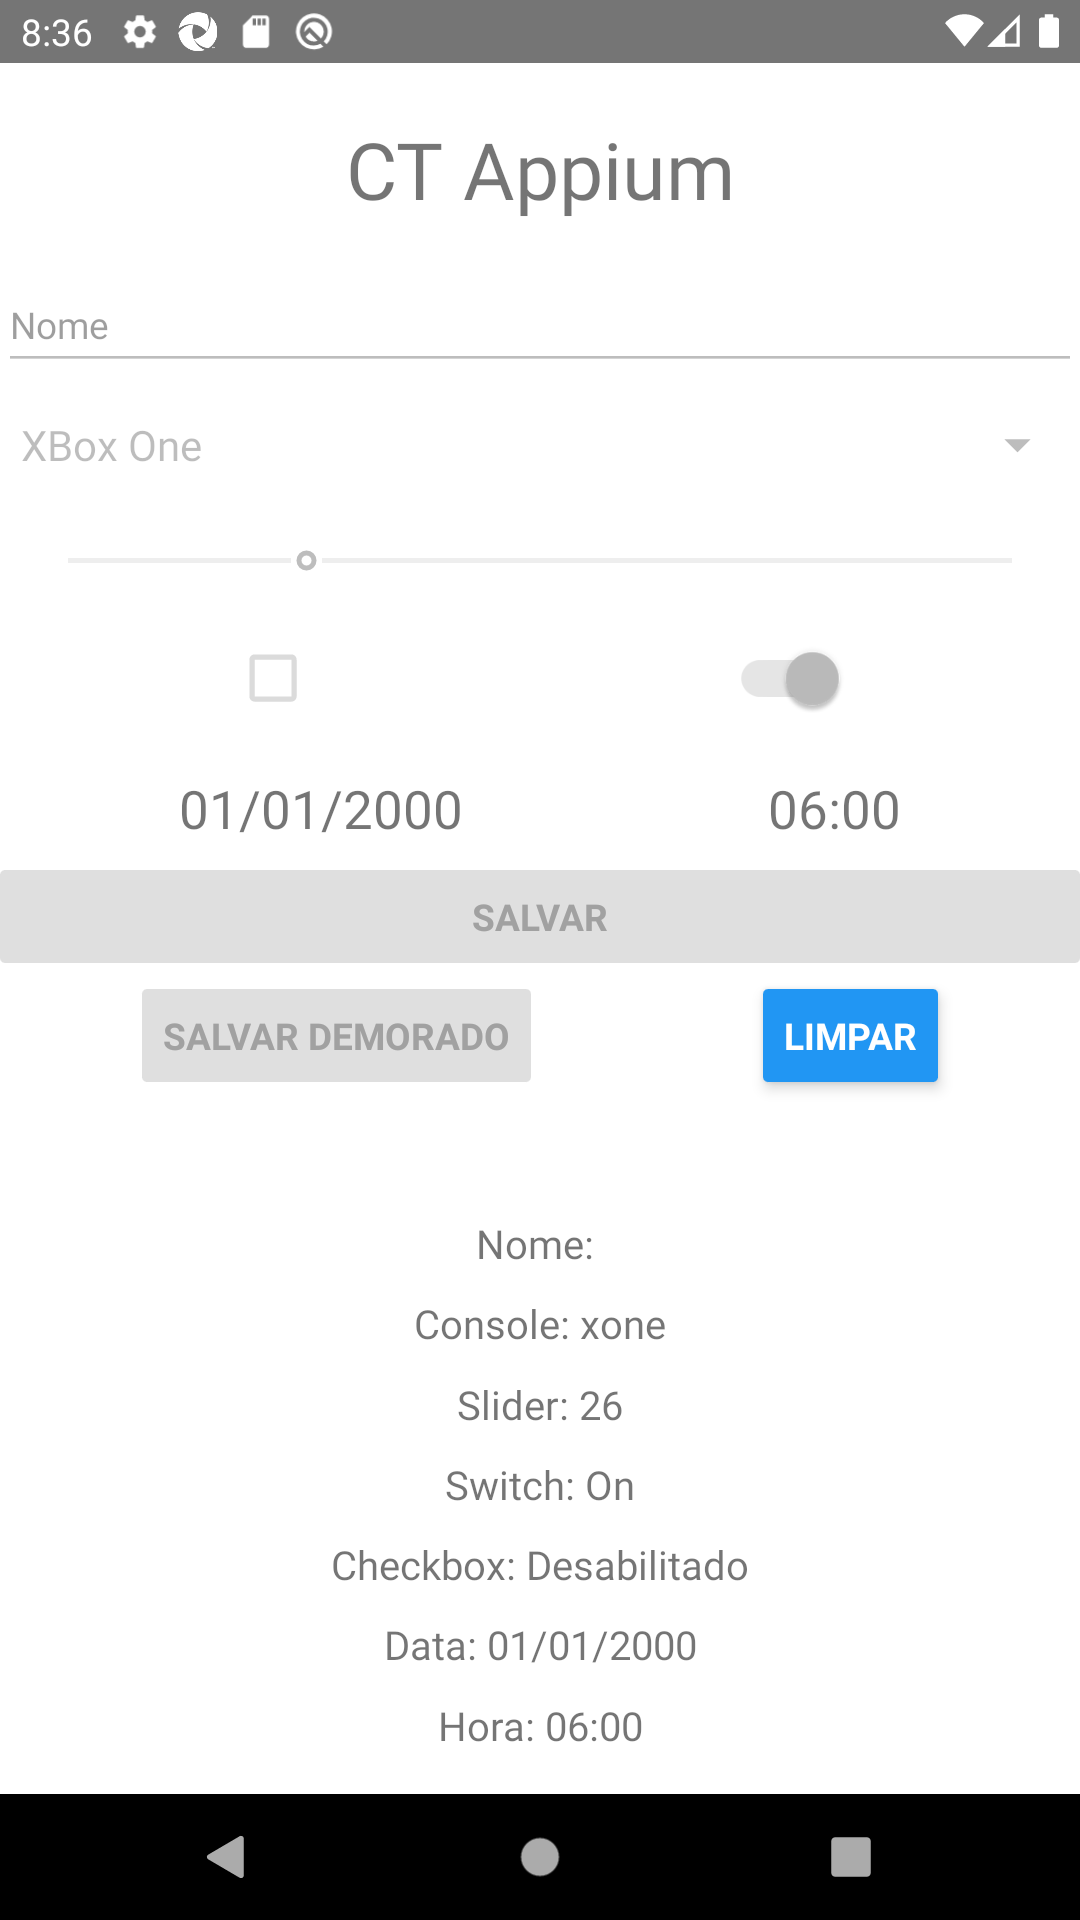
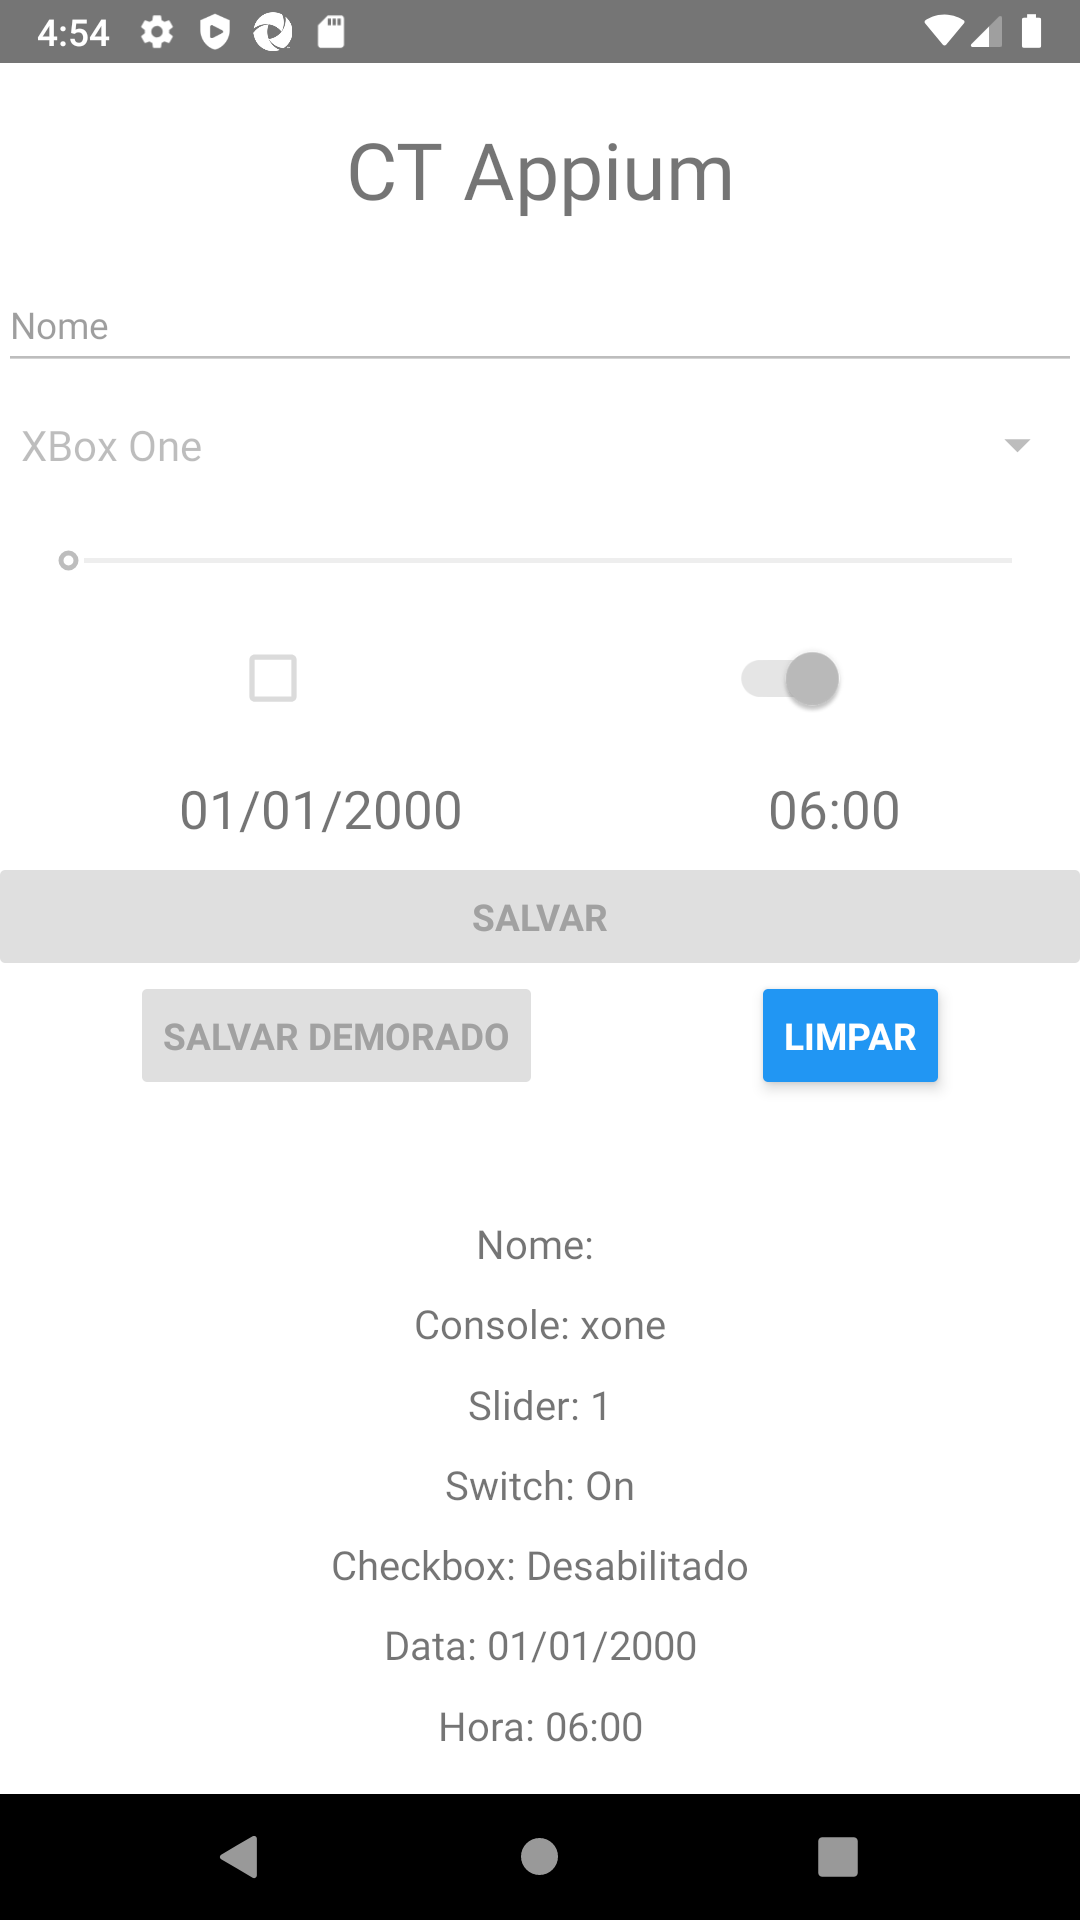
refatorando metodo move

diff --git a/src/test/java/br/com/cursoudemy/appium/pages/BasePage.java b/src/test/java/br/com/cursoudemy/appium/pages/BasePage.java
@@ -6,6 +6,7 @@ import io.appium.java_client.TouchAction;
 import io.appium.java_client.android.AndroidDriver;
 import io.appium.java_client.pagefactory.AndroidFindBy;
 import io.appium.java_client.pagefactory.AppiumFieldDecorator;
+import io.appium.java_client.touch.WaitOptions;
 import io.appium.java_client.touch.offset.PointOption;
 import org.openqa.selenium.Dimension;
 import org.openqa.selenium.NoSuchElementException;
@@ -13,6 +14,7 @@ import org.openqa.selenium.support.PageFactory;
 import org.openqa.selenium.support.ui.ExpectedConditions;
 import org.openqa.selenium.support.ui.WebDriverWait;
 
+import java.time.Duration;
 import java.util.List;
 
 public class BasePage {
@@ -170,7 +172,7 @@ public class BasePage {
         int xFinal = (int) (xInicial + seekBar.getSize().getWidth() - 2 * delta);
         System.out.println("x inicial: " + xInicial + "\nx final: " + xFinal);
         System.out.println("y: " + y);
-        touchAction.press(new PointOption().withCoordinates(xInicial, y)).moveTo(new PointOption().withCoordinates((int) (xFinal * (posicao / 100.0)), y)).perform();
+        move(xInicial, y, (int) (xFinal * (posicao / 100.0)), y);
     }
 
     public void clicarLongo(MobileElement mobileElement) {
@@ -198,14 +200,20 @@ public class BasePage {
                 .findFirst().orElseThrow(IllegalArgumentException::new));
     }
 
-    public void scroll(int inicio, int fim) {
+    public void scrollInScreem(int xInicial, int yInicial, int xFinal, int yFinal) {
         Dimension size = driver.manage().window().getSize();
-        int x = size.getWidth() / 2;
-        int startY = (int) (size.getHeight() * (inicio / 100.0));
-        int endY = (int) (size.getHeight() * (fim / 100.0));
+        int startX = (int) (size.getWidth() * (xInicial / 100.0));
+        int endX = (int) (size.getWidth() * (xFinal / 100.0));
+        int startY = (int) (size.getHeight() * (yInicial / 100.0));
+        int endY = (int) (size.getHeight() * (yFinal / 100.0));
+        move(startX, startY, endX, endY);
+    }
+
+    public void move(int startX, int startY, int endX, int endY) {
         touchAction.
-                longPress(new PointOption().withCoordinates(x, startY)).
-                moveTo(new PointOption().withCoordinates((x), endY)).
+                press(new PointOption().withCoordinates(startX, startY)).
+                waitAction(WaitOptions.waitOptions(Duration.ofMillis(500))).
+                moveTo(new PointOption().withCoordinates(endX, endY)).
                 release().
                 perform();
     }

diff --git a/src/test/java/br/com/cursoudemy/appium/pages/SwipePage.java b/src/test/java/br/com/cursoudemy/appium/pages/SwipePage.java
@@ -1,0 +1,35 @@
+package br.com.cursoudemy.appium.pages;
+
+import io.appium.java_client.MobileBy;
+import io.appium.java_client.MobileElement;
+import io.appium.java_client.android.AndroidDriver;
+import io.appium.java_client.pagefactory.AndroidFindBy;
+import org.openqa.selenium.support.ui.ExpectedConditions;
+
+import java.util.List;
+
+public class SwipePage extends BasePage {
+
+    public SwipePage(AndroidDriver<MobileElement> driver) {
+        super(driver);
+    }
+
+    @AndroidFindBy(xpath = "//android.widget.TextView")
+    private List<MobileElement> lblTela;
+
+    public void swipeDireita() {
+        scrollInScreem(90,50,10,50);
+    }
+
+    public void swipeEsquerda() {
+        scrollInScreem(10,50,90,50);
+    }
+
+    public void clicarDiretita() {
+        clicar(this.lblTela, "›");
+    }
+
+    public void clicarEsquerda() {
+        clicar(this.lblTela, "‹");
+    }
+}

diff --git a/src/test/java/br/com/cursoudemy/appium/test/SwipeTest.java b/src/test/java/br/com/cursoudemy/appium/test/SwipeTest.java
@@ -1,0 +1,28 @@
+package br.com.cursoudemy.appium.test;
+
+import br.com.cursoudemy.appium.core.DriverFactory;
+import br.com.cursoudemy.appium.pages.MenuPage;
+import br.com.cursoudemy.appium.pages.SwipePage;
+import org.junit.Before;
+import org.junit.Test;
+
+public class SwipeTest extends BaseTest {
+
+    MenuPage menuPage;
+    SwipePage swipePage;
+
+    public SwipeTest() {
+        this.menuPage = new MenuPage(DriverFactory.getDriver());
+        this.swipePage = new SwipePage(DriverFactory.getDriver());
+    }
+
+    @Before
+    public void acessaSwipePage() {
+        this.menuPage.escolheNoMenu("Swipe");
+    }
+
+    @Test
+    public void chegaaoFimEVolta() {
+        this.swipePage.swipeDireita();
+    }
+}

diff --git a/src/test/java/br/com/cursoudemy/appium/test/FormularioTest.java b/src/test/java/br/com/cursoudemy/appium/test/FormularioTest.java
@@ -83,7 +83,7 @@ public class FormularioTest extends BaseTest {
 
     @Test
     public void clicarSeekBaar() {
-        int porcenatgem = 30;
+        int porcenatgem = 1;
 //        porcenatgem = new Random().nextInt(100)+1;
         System.out.println(porcenatgem);
 

diff --git a/src/test/java/br/com/cursoudemy/appium/pages/MenuPage.java b/src/test/java/br/com/cursoudemy/appium/pages/MenuPage.java
@@ -36,6 +36,6 @@ public class MenuPage extends BasePage {
     }
 
     public void scrollMenu() {
-        scroll(90, 10);
+        scrollInScreem(50, 90,50,10);
     }
 }
